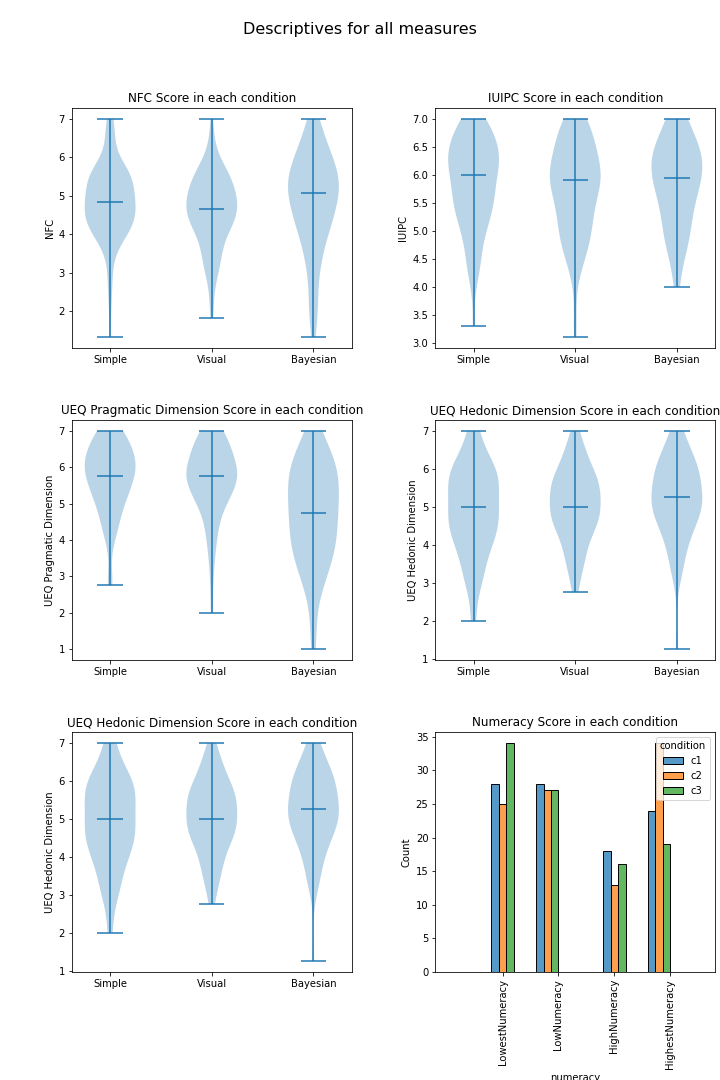
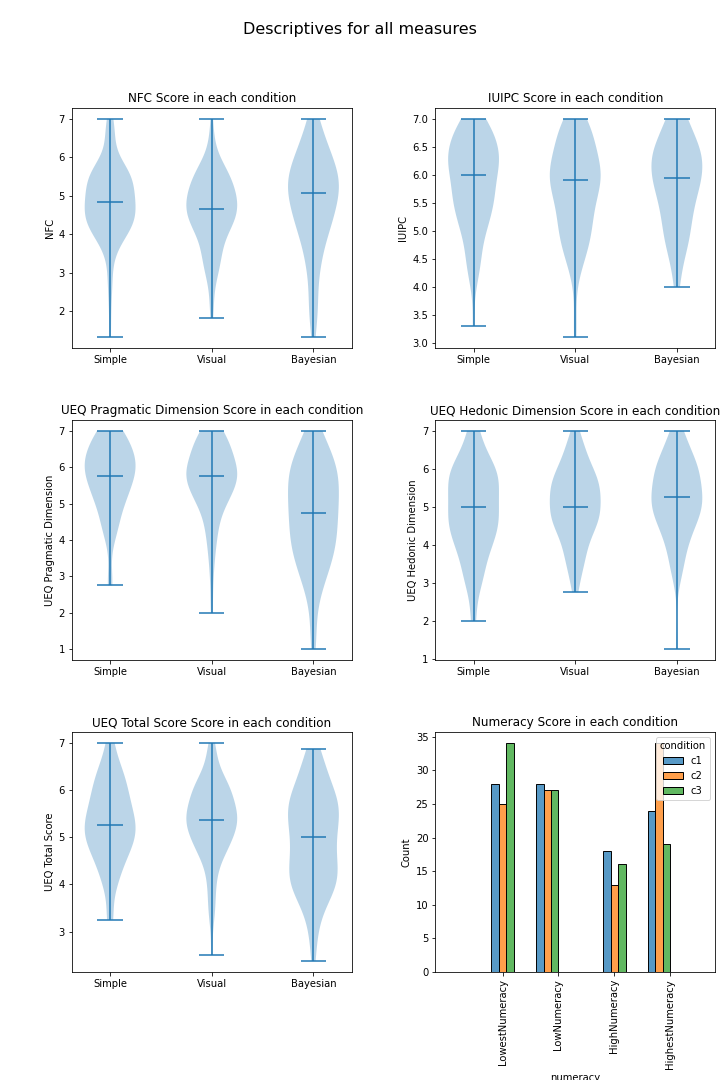
Save changes

diff --git a/plot.py b/plot.py
@@ -122,40 +122,70 @@ for df_1, df_2 in [[c1, c2], [c2, c3], [c1, c3]]:
 # %%
 
 
-def get_latex_table(df, condition, dependent_variable, interaction_term, label=None):
+def get_latex_table(
+    df, condition, dependent_variable, interaction_term=None, title=None, label=None
+):
     mapping = {
         "ueq_hedonic": "UEQ hedonic dimension",
         "ueq_pragmatic": "UEQ pragmatic dimension",
+        "ueq_total": "UEQ total score",
         "nfc": "NFC Score",
         "C(numeracy)": "Numeracy Score",
     }
 
     ols_output = sm.OLS.from_formula(
-        # formula=f"{dim} ~ condition*{interaction_term}",
-        # formula=f"{dim} ~ condition*nfc*C(numeracy) - nfc:C(numeracy) - condition:nfc:C(numeracy)",
-        formula=f"{dependent_variable} ~ condition*{interaction_term}",
+        # formula=f"{dependent_variable} ~ condition*{interaction_term}",
+        formula=f"{dependent_variable} ~ condition*nfc*C(numeracy) - nfc:C(numeracy) - condition:nfc:C(numeracy)",
+        # formula=f"{dependent_variable} ~ condition*{interaction_term}",
         data=df,
     ).fit()
 
     print(f"\\begin{{table}}[]")
     print("    \\centering")
-    print(ols_output.summary().tables[1].as_latex_tabular())
     print(
-        f"\\caption{{OLS Regression Results. Dependent variable: {mapping[dependent_variable]}. Interaction Term: {mapping[interaction_term]}.}}"
+        ols_output.summary()
+        .tables[1]
+        .as_latex_tabular()
+        .replace("condition[T.c2]", "Visual")
+        .replace("condition[T.c3]", "Bayesian")
+        .replace("C(numeracy)[T.2]", "LowNumeracy")
+        .replace("C(numeracy)[T.3]", "HighNumeracy")
+        .replace("C(numeracy)[T.4]", "HighestNumeracy")
+        .replace(":", "*")
+        .replace("nfc", "NFC")
     )
-    print(f"\\label{{tab:{dependent_variable}_{condition}_{interaction_term}}}")
+    print(
+        f"\\caption{{OLS Regression Results: {title}. Dependent variable: {mapping[dependent_variable]}.}}"
+    )
+    print(f"\\label{{tab:{dependent_variable}_{condition}}}")
 
     print(f"\\end{{table}}")
 
 
-get_latex_table(c1_c2, "visual", "ueq_hedonic", "nfc")
-get_latex_table(c1_c2, "visual", "ueq_pragmatic", "nfc")
-get_latex_table(c1_c2, "visual", "ueq_hedonic", "C(numeracy)")
-get_latex_table(c1_c2, "visual", "ueq_pragmatic", "C(numeracy)")
-get_latex_table(c2_c3, "bayesian", "ueq_hedonic", "nfc")
-get_latex_table(c2_c3, "bayesian", "ueq_pragmatic", "nfc")
-get_latex_table(c2_c3, "bayesian", "ueq_hedonic", "C(numeracy)")
-get_latex_table(c2_c3, "bayesian", "ueq_pragmatic", "C(numeracy)")
+get_latex_table(c1_c2, "visual", "ueq_hedonic", title="Condition Simple vs. Visual")
+get_latex_table(c1_c2, "visual", "ueq_pragmatic", title="Condition Simple vs. Visual")
+get_latex_table(c1_c2, "visual", "ueq_total", title="Condition Simple vs. Visual")
+
+
+get_latex_table(c2_c3, "bayesian", "ueq_hedonic", title="Condition Visual vs. Bayesian")
+get_latex_table(
+    c2_c3, "bayesian", "ueq_pragmatic", title="Condition Visual vs. Bayesian"
+)
+get_latex_table(c2_c3, "bayesian", "ueq_total", title="Condition Visual vs. Bayesian")
+
+get_latex_table(c1_c3, "bayesian", "ueq_hedonic", title="Condition Simple vs. Bayesian")
+get_latex_table(
+    c1_c3, "bayesian", "ueq_pragmatic", title="Condition Simple vs. Bayesian"
+)
+get_latex_table(c1_c3, "bayesian", "ueq_total", title="Condition Simple vs. Bayesian")
+
+# get_latex_table(c1_c2, "visual", "ueq_pragmatic", "nfc")
+# get_latex_table(c1_c2, "visual", "ueq_hedonic", "C(numeracy)")
+# get_latex_table(c1_c2, "visual", "ueq_pragmatic", "C(numeracy)")
+# get_latex_table(c2_c3, "bayesian", "ueq_hedonic", "nfc")
+# get_latex_table(c2_c3, "bayesian", "ueq_pragmatic", "nfc")
+# get_latex_table(c2_c3, "bayesian", "ueq_hedonic", "C(numeracy)")
+# get_latex_table(c2_c3, "bayesian", "ueq_pragmatic", "C(numeracy)")
 
 
 # %%
@@ -559,28 +589,22 @@ plt.show()
 
 # %% privacy_level ~ condition*iuipc
 
-print(
-    sm.OLS.from_formula(formula=f"epsilon_mean ~ condition*iuipc", data=c1)
-    .fit()
-    .summary()
-    .tables[1]
-    .as_latex_tabular()
-)
 
-print(
-    sm.OLS.from_formula(formula=f"epsilon_mean ~ condition*iuipc", data=c2)
-    .fit()
-    .summary()
-    .tables[1]
-    .as_latex_tabular()
-)
+for df, condition in zip([c1, c2, c3], ["Simple", "Visual", "Bayesian"]):
+    print(f"\\begin{{table}}[]")
+    print("    \\centering")
+    print(
+        sm.OLS.from_formula(formula=f"epsilon_mean ~ condition*iuipc", data=df)
+        .fit()
+        .summary()
+        .tables[1]
+        .as_latex_tabular()
+    )
+    print(
+        f"\\caption{{OLS Regression Results. Dependent variable: PrivacyLevel. Condition: {condition}}}"
+    )
+    print(f"\\label{{tab:privacy_level_{condition}_iuipc}}")
 
-print(
-    sm.OLS.from_formula(formula=f"epsilon_mean ~ condition*iuipc", data=c3)
-    .fit()
-    .summary()
-    .tables[1]
-    .as_latex_tabular()
-)
+    print(f"\\end{{table}}")
 
 # %%

diff --git a/descriptives.py b/descriptives.py
@@ -196,7 +196,7 @@ configs = [
     ["iuipc", "IUIPC"],
     ["ueq_pragmatic", "UEQ Pragmatic Dimension"],
     ["ueq_hedonic", "UEQ Hedonic Dimension"],
-    ["ueq_hedonic", "UEQ Hedonic Dimension"],
+    ["ueq_total", "UEQ Total Score"],
 ]
 
 for i, ax in enumerate(axes.flatten()[:-1]):
